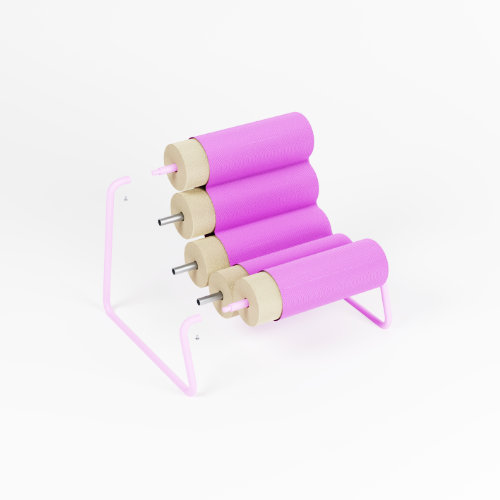
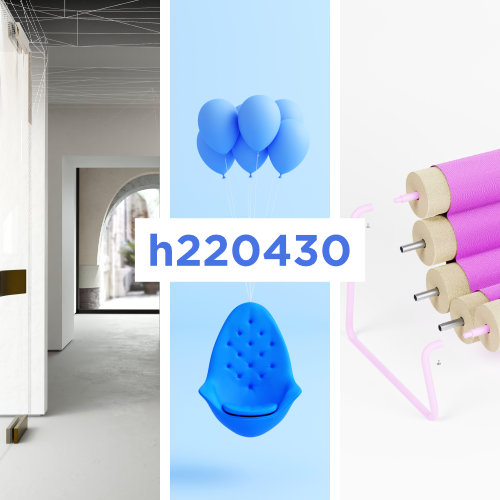
add h220430

diff --git a/work-h220430.html b/work-h220430.html
@@ -1,0 +1,165 @@
+<!DOCTYPE html>
+<html lang="eng">
+<head>
+  <meta charset="UTF-8">
+  <meta name="viewport" content="width=device-width, initial-scale=1.0">
+  <title>|X|X|X|</title>
+
+  <link rel="icon" href="favicon.ico" type="image/x-icon">
+
+  <link rel="stylesheet" href="style.css">
+
+  <link href="https://fonts.googleapis.com/css2?family=Courier+Prime:ital,wght@0,400;0,700;1,400;1,700&display=swap" rel="stylesheet">
+  <link href="https://fonts.googleapis.com/css2?family=Montserrat:ital,wght@0,100..900;1,100..900&display=swap" rel="stylesheet">
+  <link href="https://fonts.googleapis.com/css2?family=Cutive+Mono&display=swap" rel="stylesheet">
+  <link href="https://fonts.googleapis.com/css2?family=Bodoni+Moda:ital,opsz,wght@0,6..96,400..900;1,6..96,400..900&display=swap" rel="stylesheet">
+
+  <!--
+  font-family: "Montserrat", sans-serif;
+  font-optical-sizing: auto;
+  font-weight: <weight>; fluid?
+  font-style: normal;
+
+  font-family: "Courier Prime", monospace;
+  font-weight: 400 / 700;
+  font-style: normal / italic;
+
+  font-family: "Cutive Mono", monospace;
+  font-weight: 400;
+  font-style: normal;
+  -->
+
+</head>
+
+<body>
+
+  <nav>
+    <a href="content.html">
+      <svg width="100px" viewBox="0 0 99 29" id="affinitysvg" class="content-svg" xmlns="http://www.w3.org/2000/svg" style="overflow: visible; padding-left:0px; padding-bottom: 8px; box-sizing: border-box;">
+        <g transform="matrix(1,0,0,1,-2729.75,-254.465)">
+            <g transform="matrix(1,0,0,1,-5971.77,0)">
+                <g transform="matrix(0.442121,0,0,0.253136,8274.24,240.413)">
+                    <path d="M987.398,119.19C993.419,115.103 996.079,108.211 997.154,99.954L988.919,96.186C988.089,100.31 987.035,103.161 984.758,104.707C981.52,106.905 978.251,103.733 976.875,97.547L976.835,97.37C975.537,91.538 976.752,85.22 979.839,83.125C982.166,81.545 984.046,82.405 986.07,84.693L990.709,71.779C986.946,66.908 982.258,65.207 976.642,69.02C967.99,74.893 964.505,90.38 967.514,103.901L967.554,104.078C970.562,117.598 979.151,124.788 987.398,119.19Z" style="fill:rgb(255,83,56);fill-rule:nonzero;"/>
+                    <path d="M1015.66,109.164C1025.1,108.514 1031.65,95.821 1031.32,81.232L1031.32,81.042C1030.99,66.453 1023.94,54.889 1014.55,55.536C1005.12,56.186 998.557,68.878 998.887,83.468L998.891,83.657C999.221,98.247 1006.27,109.811 1015.66,109.164ZM1015.42,93.904C1011.79,94.155 1009.06,89.029 1008.92,82.776L1008.92,82.587C1008.78,76.429 1011.05,71.054 1014.79,70.796C1018.42,70.545 1021.15,75.671 1021.29,81.924L1021.29,82.113C1021.43,88.271 1019.16,93.646 1015.42,93.904Z" style="fill:rgb(255,83,56);fill-rule:nonzero;"/>
+                    <path d="M1034.19,109.826L1043.96,115.566L1049.03,89.235C1050.05,83.933 1052.36,82.085 1054.72,83.474C1057.04,84.834 1058.08,88.647 1057.06,93.949L1051.99,120.28L1061.77,126.021L1067.89,94.208C1070.02,83.154 1067.78,74.239 1061.87,70.765C1057.9,68.438 1054.59,70.792 1052.01,73.778L1053.32,66.948L1043.55,61.207L1034.19,109.826Z" style="fill:rgb(255,83,56);fill-rule:nonzero;"/>
+                    <path d="M1078.99,139.951C1081.65,141.832 1084.16,142.375 1086.26,141.911L1089.29,128.811C1087.91,128.962 1086.56,128.726 1085.3,127.838C1083.54,126.596 1083.01,124.586 1083.78,121.245L1087.5,105.156L1093.84,109.628L1096.95,96.177L1090.61,91.705L1093.39,79.661L1083.83,72.917L1081.04,84.962L1077.82,82.69L1074.71,96.141L1077.93,98.413L1073.46,117.754C1070.84,129.096 1073.25,135.905 1078.99,139.951Z" style="fill:rgb(255,83,56);fill-rule:nonzero;"/>
+                    <path d="M1106.33,157.681C1111.92,160.765 1116.52,158.929 1120.29,154.448L1116.28,143.583C1113.64,145.905 1111.5,146.414 1109.17,145.128C1106.11,143.443 1104.38,139.503 1104.57,133.741L1123.3,144.08C1123.57,142.933 1123.8,141.667 1123.99,140.582C1126.59,126.208 1124.38,111.366 1114.7,106.025C1106.42,101.455 1098.53,109.529 1095.94,123.813L1095.91,123.994C1093.16,139.182 1097.53,152.825 1106.33,157.681ZM1106,124.886C1107.48,119.837 1109.88,117.282 1112.46,118.71C1115.16,120.196 1116.35,124.631 1115.73,130.255L1106,124.886Z" style="fill:rgb(255,83,56);fill-rule:nonzero;"/>
+                    <path d="M1131.37,167.721L1141.68,167.172L1141.2,139.405C1141.1,133.814 1142.89,130.683 1145.39,130.55C1147.83,130.42 1149.56,133.363 1149.66,138.954L1150.15,166.72L1160.46,166.171L1159.87,132.623C1159.67,120.967 1155.8,113.964 1149.56,114.297C1145.38,114.52 1142.74,118.739 1140.91,123.105L1140.79,115.903L1130.48,116.453L1131.37,167.721Z" style="fill:rgb(255,83,56);fill-rule:nonzero;"/>
+                    <path d="M1183.68,155.411C1186.39,153.718 1188.47,151.21 1189.86,148.427L1187.13,135.126C1186.16,136.843 1185.06,138.234 1183.79,139.033C1182,140.151 1180.83,139.266 1180.14,135.873L1176.79,119.537L1183.23,115.513L1180.43,101.855L1174,105.879L1171.49,93.649L1161.78,99.718L1164.28,111.948L1161.01,113.992L1163.81,127.65L1167.08,125.606L1171.11,145.245C1173.46,156.761 1177.85,159.052 1183.68,155.411Z" style="fill:rgb(255,83,56);fill-rule:nonzero;"/>
+                </g>
+            </g>
+        </g>
+      </svg>
+    </a>
+
+    
+    <!-- about-->
+    <a href="about.html" class="nav-item">
+      <svg viewBox="0 0 100 100" xmlns="http://www.w3.org/2000/svg" class="rotating-about">
+        <path id="about-path" d="M0,50 Q25,50 50,50 Q75,50 100,50" fill="transparent" stroke="transparent"> </path>
+        <text>
+          <textPath href="#about-path" startOffset="50%" text-anchor="middle">
+            about
+          </textPath>
+        </text>
+      </svg>
+    </a>
+  </nav>
+
+
+  <div class="project-top">
+    <div class="project-cover-container">
+      <img src="h220430/cover.jpg" alt="cover picture" />
+    </div>
+    <div class="title-container">
+      <h1>h220430</h1>
+      <h3>design, precise models, rendering</h3>
+      <p>internship <br>
+        11.2022 - 03.2023<br>
+        Tokyo, Japan<br>
+        h220430.jp / thedesignlabo.co.jp<br>
+        <br>
+        For 4 months I interned at a small interdisciplinary studio based in Tokyo, Japan. 
+        The team of Satoshi Itasaka works under several names and leads projects in the fields of art, 
+        design and architecture. Their clients include companies like Pasona, Diabla and Hermès but also private individuals and galleries.</p>
+    </div>
+  </div>
+
+  <div class="project-main-small">
+    <div class="project-main-small-text">
+        <p>How people can be helped within their own homes? The current solution to this seems to be ever more technology 
+            and intelligent appliances.A <span class="stress">theoretical analysis of the smart home</span> revealed however, that humans can almost 
+            always also perform these aids and most of the time better than any technology can. The central idea of |X|X|X| 
+            is therefore to foster co-living and inter-human support instead of increasing our reliance on technology.</p>
+      </div>
+    <div class="project-main-small-picture">
+        <img src="xxx/infographic.svg" alt="info graphic"/>
+    </div>
+  </div>
+
+  <div class="project-main-small">
+    <div class="project-main-small-picture">
+        <img src="xxx/living.svg" alt="living"/>
+      </div>
+    <div class="project-main-small-text">
+      <p>In co-living, the door has a central and symbolic function, as <span class="stress">the room-door separates privacy and openness</span>. 
+        At the moment however doors are binary as there are only two possible stages: fully open or fully closed. 
+        This however doesn’t fully correlate with the more analog and gradual human experience. Extensive prototyping, 
+        looking into methods of designing this transition from open to closed, finally led to origami. 
+        Further tests revealed a folding pattern, that allowed to beautifully transition from open to half-open to fully closed.</p>
+    </div>
+  </div>
+
+  <div class="project-main-small">
+    <div class="project-main-small-text">
+      <p>|X|X|X| is a sliding door that has multiple states: When pulled shut, the door isolates the room with its glass panes. 
+        This means no heat, sound or wind can escape the room, while it still lets through most of the light. Or in other words, 
+        the door is <span class="stress">physically closed but visually open</span>, keeping the connection to the rest of the flat. If the user wishes 
+        for more privacy, the door can be pulled shut even further making it fully opaque. The outer section folds away and 
+        makes room for the other two elements to unfold completely.</p>
+    </div>
+    <div class="project-main-small-picture">
+      <img src="xxx/stadien.jpg" alt="stadien"/>
+    </div>
+  </div>
+
+  <div class="project-main-large">
+    <div class="project-main-large-left">
+      <img src="xxx/aufbau.svg" alt="aufbau"/>
+    </div>
+    <div class="project-main-large-right">
+      <div class="project-main-large-right-picture">
+        <img src="xxx/modellbau.jpg" alt="modellbau"/>
+      </div>
+      <div class="project-main-large-right-text">
+        <p>The doors minimalistic construction was conceived through iterative testing and consists of six slender 
+            <span class="stress">pains of glass connected by four long pieces of stiffened fabric</span>. This fabric acts as the doors hinge, 
+            while at the same time giving it its characteristic property of multi staged privacy. When it is pulled 
+            completely shut the outer section folds flat, giving the other two sections space to unfold completely 
+            and therefore becoming opaque. Because of its minimalistic construction the door could be easily retrofitted into any home.</p>
+       </div>
+    </div>
+  </div>
+
+  <div class="project-navigation">
+    <div class="project-navigation-left">
+      <a href="project-vbin.html" class="email-link">
+        <h4>« V-bin</h4>
+      </a>
+    </div>
+    <div class="project-navigation-right">
+      <a href="project-paravent.html" class="email-link">
+        <h4>paravent »</h4>
+      </a>
+    </div>
+  </div>
+
+  <footer class="footer">
+    <h6>
+      <a href="index.html" class="email-link">© Moritz Bisjak -</a>
+      <a href="mailto:m.bisjak@posteo.de" class="email-link" >m.bisjak@posteo.de</a>
+    </h6>
+  </footer>  
+
+</body>
+</html>

diff --git a/content.html b/content.html
@@ -68,16 +68,16 @@
   <h2>work</h2>
   <section class="section">
     <div class="contents-container">
-      <a href="work-h220430.html" class="contents-main-item">
-        <img src="preview/work-h220430.jpg" alt="work h220430">
-        <div class="contents-overlay">
-          go to:<br>h220430
-        </div>
-      </a>
       <a href="work-harolds.html" class="contents-main-item">
         <img src="preview/work-harolds.jpg" alt="work harolds">
         <div class="contents-overlay">
           go to:<br>harold's bags
+        </div>
+      </a>
+      <a href="work-h220430.html" class="contents-main-item">
+        <img src="preview/work-h220430.jpg" alt="work h220430">
+        <div class="contents-overlay">
+          go to:<br>h220430
         </div>
       </a>
     </div>
@@ -119,6 +119,10 @@
         <div class="contents-overlay">Tableware for a three course dish in space, that minimises transport volume without compromising the experience.</div>
       </div>
       <div class="contents-item" tabindex="0">
+        <img src="preview/other-sirius.jpg" alt="Sirius">
+        <div class="contents-overlay">A speculative design about a future society living in sybiosis with nature and bioluminescent fungi.</div>
+      </div>
+      <div class="contents-item" tabindex="0">
         <img src="preview/other-lignin.jpg" alt="lignin">
         <div class="contents-overlay">Experimenting with lignin-sulfonates, a byproduct of paper making, as a natural composite.</div>
       </div>
@@ -131,16 +135,20 @@
         <div class="contents-overlay">Creating a new unboxing experience for Casio G-shocks by rotating them into hard plaster.</div>
       </div>
       <div class="contents-item" tabindex="0">
-        <img src="preview/other-bottle.jpg" alt="bottle">
-        <div class="contents-overlay">A minimal way to package bottles by twisting them into a form, while retaining stackability.</div>
-      </div>
-      <div class="contents-item" tabindex="0">
         <img src="preview/other-fatbag.jpg" alt="fat bag">
         <div class="contents-overlay">An ergonomic bag systems that mimics fat deposits in the human body, arguably the most ergonomic place to put weight.</div>
       </div>
       <div class="contents-item" tabindex="0">
+        <img src="preview/other-zerowastepattern.jpg" alt="zero waste pattern">
+        <div class="contents-overlay">Developing a zero waste pattern for sewing pants to minimise waste during production.</div>
+      </div>
+      <div class="contents-item" tabindex="0">
         <img src="preview/other-foldclose.jpg" alt="trashbin">
         <div class="contents-overlay">A cubic bin that deforms three dimensionally to open and close.</div>
+      </div>
+      <div class="contents-item" tabindex="0">
+        <img src="preview/other-bottle.jpg" alt="bottle">
+        <div class="contents-overlay">A minimal way to package bottles by twisting them into a form, while retaining stackability.</div>
       </div>
       <div class="contents-item" tabindex="0">
         <img src="preview/other-noknot.jpg" alt="no knot">
@@ -157,10 +165,6 @@
       <div class="contents-item" tabindex="0">
         <img src="preview/other-hfgunddann.jpg" alt="hfg und dann?">
         <div class="contents-overlay">Creating and organising a talk series about design-work-realities, including a CI.</div>
-      </div>
-      <div class="contents-item" tabindex="0">
-        <img src="preview/other-sirius.jpg" alt="Sirius">
-        <div class="contents-overlay">A speculative design about a future society living in sybiosis with nature and bioluminescent fungi.</div>
       </div>
     </div>
   </section>
